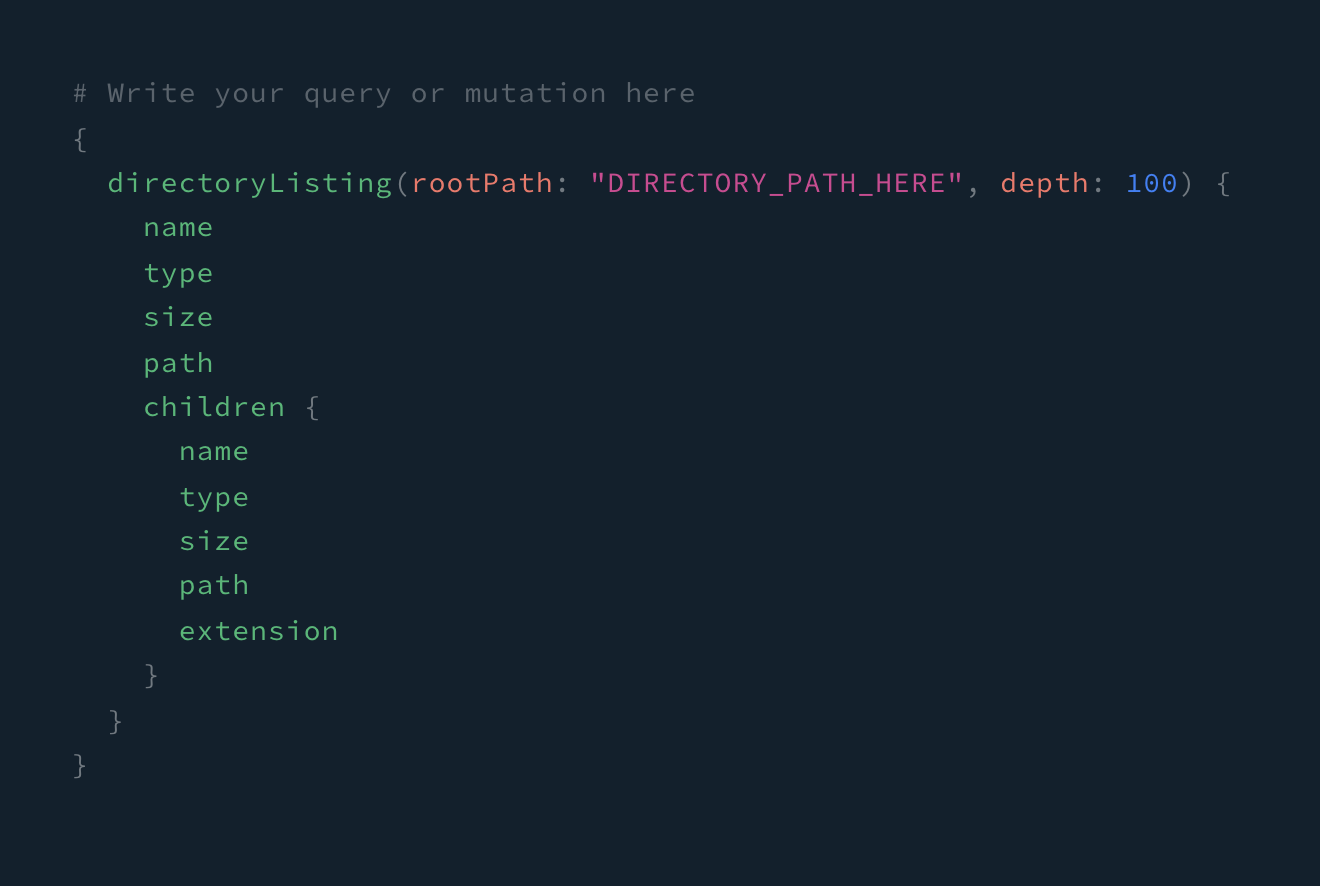
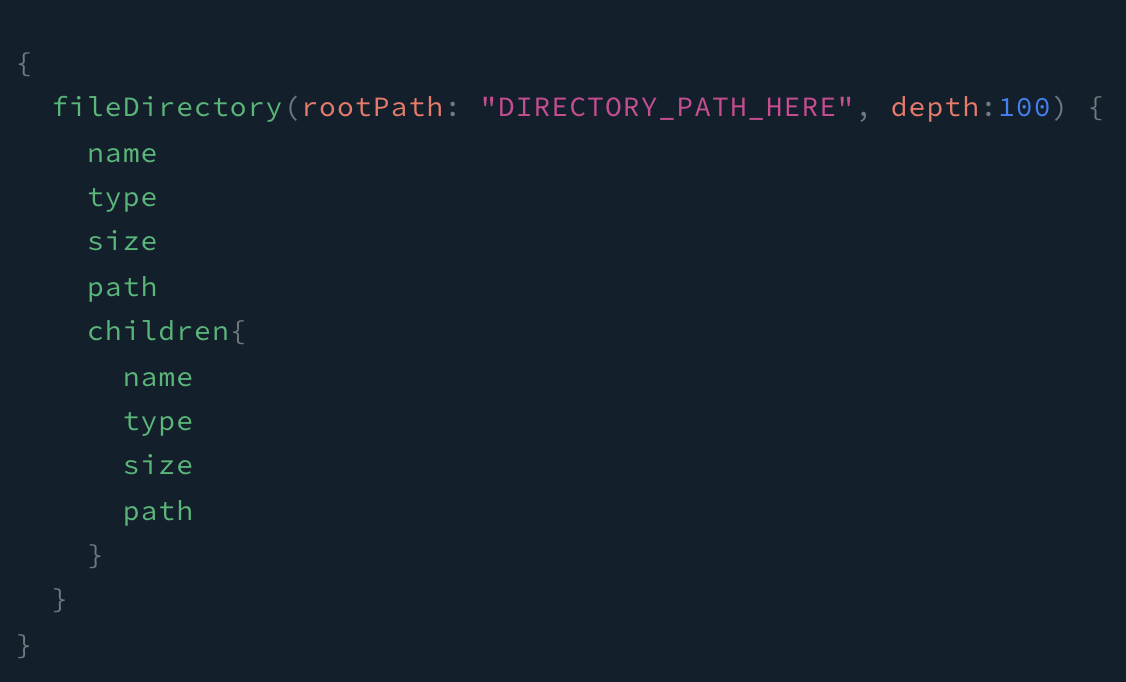
minor fix

diff --git a/blueprint.js b/blueprint.js
@@ -1,6 +1,5 @@
 import {gql} from "apollo-server-express";
 
-
 const typeDefs = gql`
 
     type Attributes {
@@ -13,8 +12,7 @@ const typeDefs = gql`
     }
 
     type Query {
-        directoryListing(rootPath: String!, depth: Int!): Attributes
+        fileDirectory(rootPath: String!, depth: Int!): Attributes
     }
 `
-
 export default typeDefs;

diff --git a/tree-path.js b/tree-path.js
@@ -87,7 +87,7 @@ function buildTree(rootPath, depth) {
 
 const resolvers = {
     Query: {
-        directoryListing: (root, {rootPath, depth}) => {
+        fileDirectory: (root, {rootPath, depth}) => {
             return buildTree(rootPath, depth);
         }
     }
